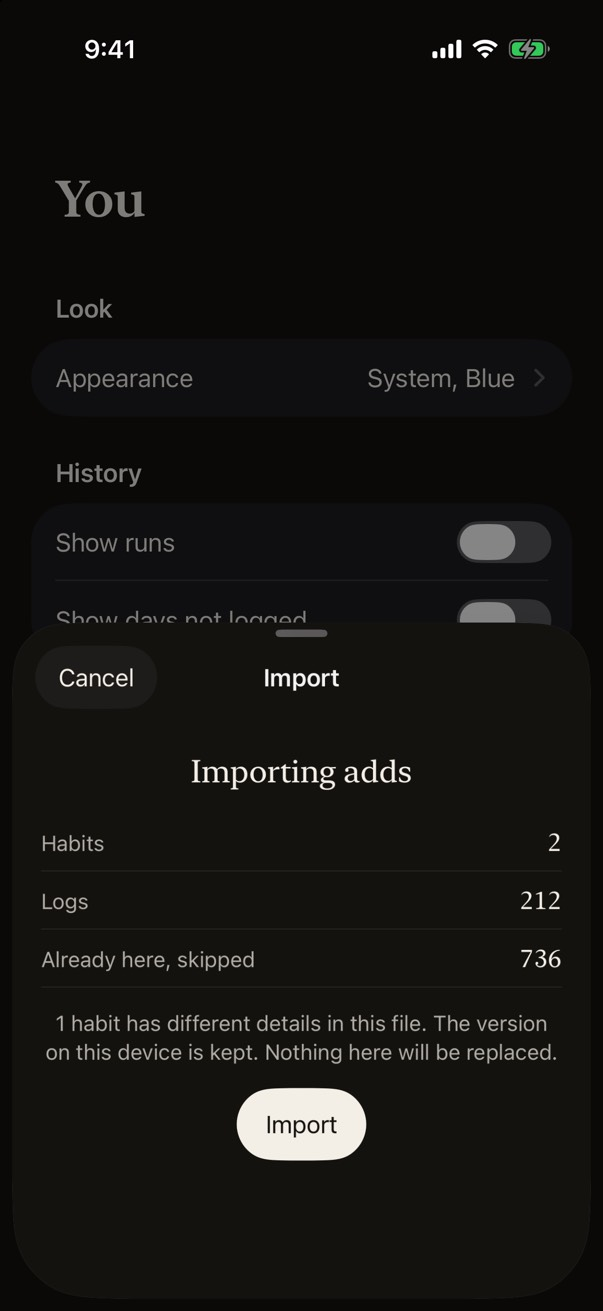
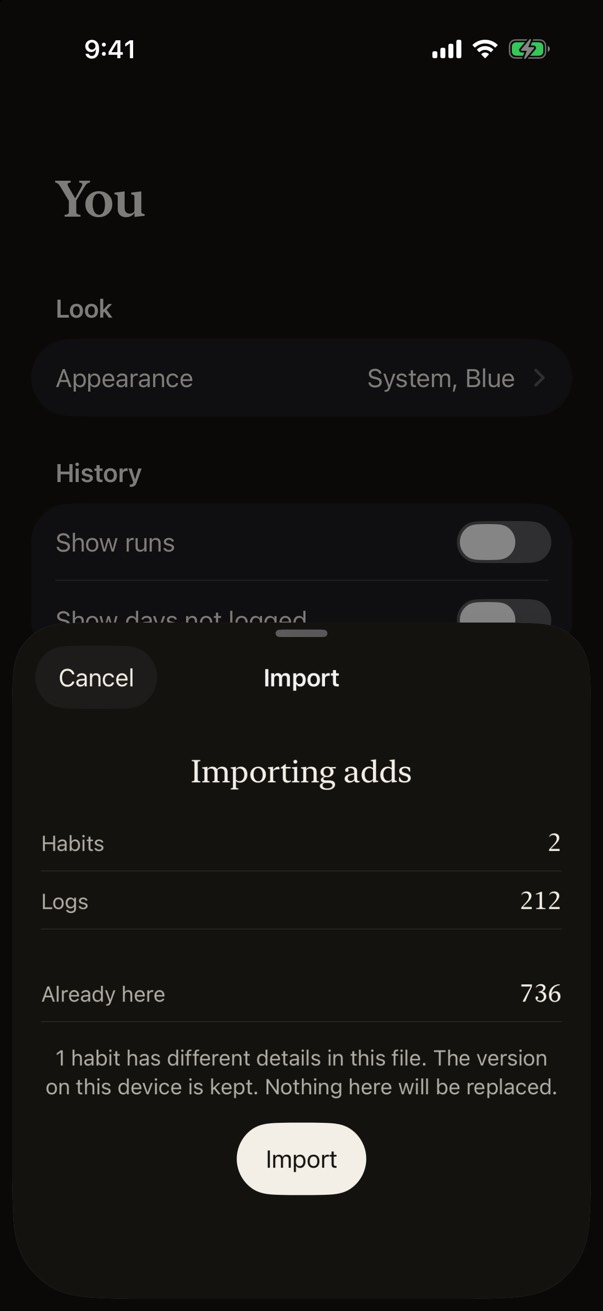
Round 2 fixes: set apart Already here, keep the Settings model, record gates
The import preview row reads "Already here" and sits apart from what is added.
The Mac Settings window keeps one model across redraws.
Findings gain the Audio Graph gate, the header cap condition and the key's Today entry.

Changed region(s): [[0.0597, 0.7018, 0.9254, 0.9153]]

diff --git a/App/Data/ImportExport.swift b/App/Data/ImportExport.swift
@@ -159,8 +159,10 @@ struct ImportSheet: View {
                 if !plan.newPauses.isEmpty {
                     StatRow(label: String(localized: "Pauses"), value: plan.newPauses.count.formatted())
                 }
-                StatRow(label: String(localized: "Already here, skipped"), value: plan.skippedLogs.formatted())
             }
+            // Set apart, because these logs are not added.
+            StatRow(label: String(localized: "Already here"), value: plan.skippedLogs.formatted())
+                .padding(.top, 8)
             if plan.differing > 0 {
                 caption(plan.differing == 1
                     ? String(localized: "1 habit has different details in this file. The version on this device is kept. Nothing here will be replaced.")

diff --git a/App/HabitApp.swift b/App/HabitApp.swift
@@ -5,6 +5,10 @@ import HabitKit
 @main
 struct HabitApp: App {
     @State private var settings = Settings()
+    #if os(macOS)
+    /// The Settings window's own model, kept across redraws.
+    @State private var settingsModel = AppModel()
+    #endif
 
     init() {
         #if os(iOS)
@@ -43,7 +47,7 @@ struct HabitApp: App {
                 }
             }
             .environment(settings)
-            .environment(AppModel())
+            .environment(settingsModel)
             .preferredColorScheme(settings.preferredColorScheme)
             .frame(minWidth: 460, minHeight: 520)
         }

diff --git a/docs/findings.md b/docs/findings.md
@@ -10,6 +10,7 @@ Status is one of: owed (with the milestone), gate (a test that must pass), guess
 |---|---|---|---|
 | 3 | The widget in clear and tinted modes, on the lightest wallpaper, keeps 3:1 for marks and 4.5:1 for text | Use the system's vibrant foreground. If it still fails, the widget ships without clear mode support | Low vision, 15 Nov. Seen in `m3-w-clear.png` |
 | 4 | History month strip at the largest text size, and under a blur test, in Pen and ink, Pencil and Watercolor | Month moves to milestone 13. History becomes Week only, with no control | Product owner and low vision, 15 Nov. Seen in `sheet-hist-month.png` |
+| 3 | On a device with VoiceOver, the rotor offers Audio Graph on the Habit detail year grid | Wrap the grid in `.accessibilityElement(children: .contain)` and test again. If it still fails, put the descriptor on one element that sums up the year | Accessibility, 15 Nov. `App/History/HabitDetailView.swift`, YearGrid |
 | 3 | One signed, sandboxed run of the Mac app with the owner's free account: export to a picked folder, import from it, and open the App Group store | Unsigned builds run without the sandbox, so no test has exercised it. If it fails, find the missing entitlement or profile and bring it to the owner | Release engineer, 15 Nov. `Config/Habit-macOS.entitlements` |
 | 13 | The system offers to save an export password that has no account or domain | The export screen does not mention saving | Security and privacy, 15 Nov |
 
@@ -25,7 +26,7 @@ Status is one of: owed (with the milestone), gate (a test that must pass), guess
 | Milestone | Item | Where seen |
 |---|---|---|
 | 2 | History month with many habits is not drawn | `m2-hist-many.png` is Week only |
-| 2 | Marks in a History row are small beside text at the largest size | `ax-history.png` |
+| 2 | Marks in a History row are small beside text at the largest size. If the cells grow, lift the cap on the week header letters (`.dynamicTypeSize(...xxxLarge)` in `HistoryWeekHeader`) | `ax-history.png`, `ax5-history-paper.jpg` |
 | 2 | No screen was checked on a phone smaller than 393 by 852 points | `sheet-ax.png` |
 | 3 | The Mac Habit menu, row selection and arrow keys are not built. File and View menus are | `mac-menus.png` |
 | 3 | History week rows expose each day as its own VoiceOver element instead of one row summary | `App/History/HistoryView.swift` |
@@ -40,4 +41,5 @@ Status is one of: owed (with the milestone), gate (a test that must pass), guess
 | The row menu item that opens Habit detail is called "Details" | Content designer | `m3-menu.png` |
 | An archived habit shows in History under "Archived" only in a period where it has a log | Product owner, Returning user | `m2-hist-many.png` |
 | An imported habit that differs keeps this device's version | Senior software engineer, QA engineer | `docs/spec.md`, Export |
+| The key adds a "Today" entry. The accessibility review asked for it. The tired daily user found the key wraps to three lines on a phone | Senior designer | `history-month-paper.jpg` |
 | The export file keeps complete protection, though a share still running when the phone locks can then fail. The release engineer suggested complete-unless-open | Security and privacy | `App/Data/ImportExport.swift`, `writeTemporaryFile` |
